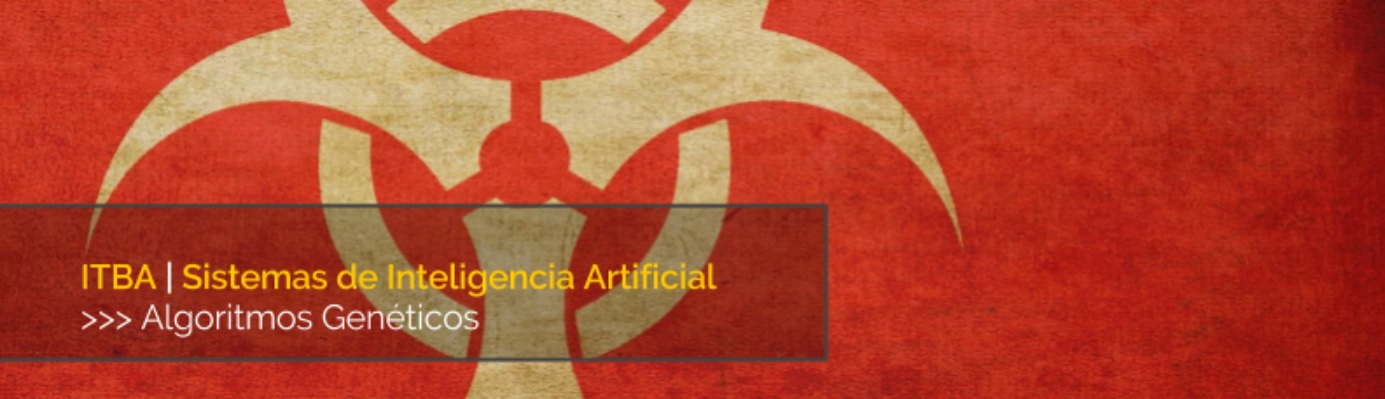
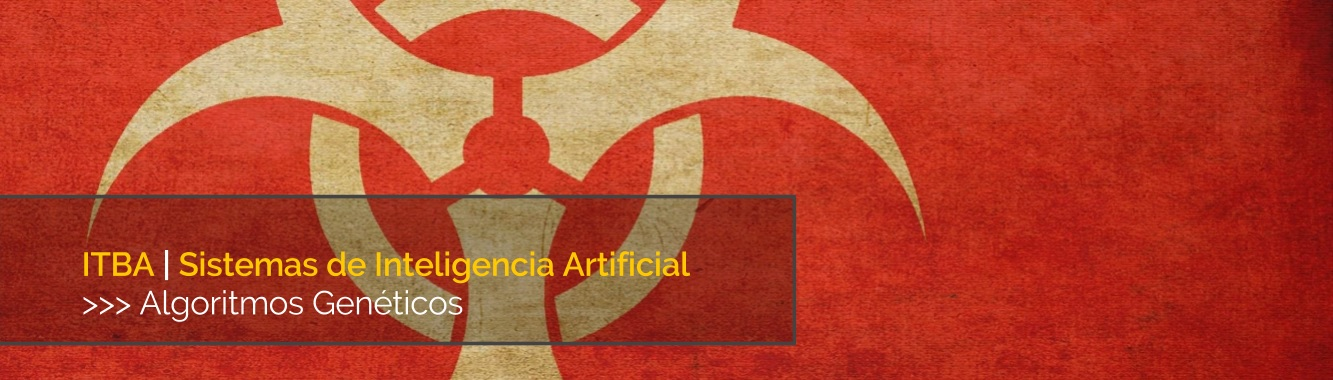
README final. Más resolución en la imagen del HEADER. Configuración óptima.

diff --git a/tp3/README.md b/tp3/README.md
@@ -1,13 +1,17 @@
 ![...](res/images/header.jpg)
 
-# Genetic Algorithms
+# Genetic System©
 
-Se desarrolló un **RCGA** (_Real-Coded Genetic Algorithm_), para optimizar el equipamiento
-de un personaje en un videojuego, maximizando su desempeño. El personaje asignado fue el _Defensor N° 2_.
+Se desarrolló un _**RCGA**_ (_Real-Coded Genetic Algorithm_), para optimizar
+el equipamiento de un personaje en un videojuego, maximizando su desempeño. El
+personaje asignado fue el _Defensor N° 2_. Para la implementación, se decidió
+utilizar el framework **_MathWorks® Matlab_**, ya que facilita la aplicación
+de cálculos matriciales, y la visualización de información.
 
-Para la implementación, se decidió utilizar el framework
-**_MathWorks® Matlab_**, ya que facilita la aplicación de cálculos
-matriciales, y la visualización de información.
+El algoritmo permite obtener la configuración final de ítems, los valores de
+cada uno de ellos (extraidos desde la base de datos proporcionada), y la
+altura más óptima para el personaje diseñado. Así mismo, computa el desempeño
+máximo percibido con esta configuración.
 
 ## Instalación
 
@@ -29,7 +33,7 @@ configuración `config.json`, con la siguiente estructura (en formato _JSON_):
 	"helmets" : "../res/benchmarks/data/cascos.tsv",
 	"weapons" : "../res/benchmarks/data/armas.tsv",
 
-	"output" : "../res/benchmarks/output.json"
+	"output" : "../res/benchmarks/output.json",
 
 	"attackDefenseRate" : 0.1,
 
@@ -39,74 +43,128 @@ configuración `config.json`, con la siguiente estructura (en formato _JSON_):
 	"itemResistance" : 1.1,
 	"itemHealth": 1.1,
 
-	"population" : 250,
+	"population" : 300,
 	"generations": 10000,
 	"cutOffThreshold" : 176,
-	"contentAssert" : true,
-	"contentAssertSteps" : 10000,
+	"contentAssert" : false,
+	"contentAssertSteps" : 1000,
 	"structAssert" : false,
-	"structAssertRatio" : 0.9,
+	"structAssertRatio" : 0.75,
 
-	"selection" : 20,
-	"selectionMethod": ["boltzmann", "elite"],
-	"selectionMethodRate": 0.8,
+	"selection" : 50,
+	"selectionMethod": ["deterministicTournament", "elite"],
+	"selectionMethodRate": 0.7,
 	"temperature" : 1000,
 	"tempReductionRate" : 1,
 
-	"crossoverProbability": 0.9,
+	"crossoverProbability": 0.85,
 	"crossoverMethod": "anular",
 
-	"mutationProbability" : 0.025,
+	"mutationProbability" : 0.07,
 
-	"replacement": 2,
-	"replacementMethod": ["probabilisticTournament", "elite"],
-	"replacementMethodRate": 0.8,
+	"replacement": 1,
+	"replacementMethod": ["deterministicTournament", "elite"],
+	"replacementMethodRate": 0.7,
 
-	"graphRateLimit" : true,
-	"graphFitness" : true
+	"graphFitness" : true,
+	"graphRateLimit" : true
 }
 
 ```
 
-Cada parámetro especifica:
+Donde cada parámetro especifica:
 
-* `attackDefenseRate`: porcentaje de desempeño que se le asignará al ataque y la defensa. El mismo se elige en base al personaje: si se toma un valor _P_, el desempeño del mismo dependerá de un porcentaje _P_ del ataque y _1-P_ de la defensa.
-* `itemStrength`, `itemAgility`, `itemExpertise`, `itemResistance`, `itemHealth`: los multiplicadores de los ítems.
-* `crossoverMethod`: el método que se utilizará en la cruza. Puede ser `singlepoint`, `twopoint`, `uniform` o `anular`.
-* `crossoverProbability`: la probabilidad de realizarse una cruza.
-* `generations`: la cantidad máxima de generaciones.
-* `mutationProbability`: la probabilidad de que se realize una mutación en un gen.
+* `armors`, `boots`, `gauntlets`, `helmets`, `weapons`: especifican la ruta
+hacia las bases de datos (en formato _TSV_) de las pecheras, botas, guantes,
+cascos y armas, respectivamente. Nótese que la ruta debe especificarse de
+forma absoluta, o de forma relativa con respecto al directorio _src_ en el
+cual se despliega el algoritmo.
+
+* `output`: especifica el nombre de un archivo de salida en formato _JSON_ en
+el cual almacenar la población final, lo que permite reiniciar el algoritmo
+desde un punto conocido y alcanzado en una iteración anterior. También permite
+(configurando una corrida de _0_ generaciones), generar una población al azar
+con la cual inyectar sucesivas pruebas desde la misma instancia inicial.
+
+* `attackDefenseRate`: porcentaje de desempeño que se le asignará al ataque y
+la defensa. El mismo se elige en base al personaje: si se toma un valor _P_,
+el desempeño del mismo dependerá de una proporción _P_ de ataque y _(1 - P)_
+de defensa.
+
+* `itemStrength`, `itemAgility`, `itemExpertise`, `itemResistance`,
+`itemHealth`: los multiplicadores de los ítems para el _Defensor N° 2_.
+
 * `population`: la cantidad de inviduos que tendrá la población.
-* `replacement`: el método de reemplazo `1`, `2` o `3`.
-* `replacementMethod`: vector con los 2 métodos mediante los cuales se seleccionarán los cromosomas en la etapa de reemplazo. Las opciones son: `boltzmann`, `elite`, `deterministicTournament`, `probabilisticTournament`, `ranking`, `roulette` o `universal`.
- * `replacementMethodRate`: porcentaje _B_ de elegidos con el primer método de selección para reemplazo. Un porcentaje _1-B_ se elige mediante el segundo método.
- * `selection`: la cantidad de padres que se elegirán para cruzar.
- * `selectionMethod`: vector con los 2 métodos mediante los cuales se seleccionarán los cromosomas en la etapa de cruza. Las opciones son: `boltzmann`, `elite`, `deterministicTournament`, `probabilisticTournament`, `ranking`, `roulette`  o `universal`.
- * `selectionMethodRate`: porcentaje _A_ de elegidos con el primer método de selección. Un porcentaje _1-A_ se elige mediante el segundo método.
- * `temperature`: temperatura inicial para el método de Boltzmann.
- * `tempReductionRate`: proporción en la cual se reduce la temperatura en cada generación.
- * `graphRateLimit`: limita la cantidad de FPS utilizados en el gráfico de _fitness_, lo que permite reducir el costo de este proceso, e incrementar la fluidez percibida.
- * `graphFitness`: permite graficar la variación de adaptación máxima y promedio en tiempo real, mientras el algoritmo se ejecuta.
- * `output`: especifica un archivo de salida en formato _JSON_ en el cual almacenar la población final, lo que permite reiniciar el algoritmo desde un punto conocido alcanzado en una iteración anterior.
+* `generations`: la cantidad de ciclos o generaciones máximas a ejecutar.
+* `cutOffThreshold`: el límite máximo de adaptabilidad requerido antes de
+finalizar la ejecución.
+* `contentAssert`: indica si se debe aplicar una suspensión en la ejecución
+debido a que la máxima adaptación no progresa.
+* `contentAssertSteps`: la cantidad de generaciones en las cuales el máximo no
+debe progresar antes de finalizar la ejecución.
+* `structAssert`: indica si se debe aplicar una suspensión cuando el código
+genético de los cromosomas no varía substancialmente de generación en
+generación.
+* `structAssertRatio`: la proporción de individuos que no deben progresar a lo
+largo de las generaciones, antes de aplicar el corte.
 
-Luego de construir el archivo de configuración, dentro del sub-directorio
-*src*, y desde la aplicación _Matlab_, ejecute:
+* `selection`: la cantidad de padres que se elegirán para cruzar, es decir, el
+parámetro _k_.
+* `selectionMethod`: vector con los 2 métodos mediante los cuales se
+seleccionarán los cromosomas en la etapa de cruza. Las opciones son:
+`boltzmann`, `deterministicTournament`, `elite`, `probabilisticTournament`,
+`ranking`, `roulette` ó `universal`.
+* `selectionMethodRate`: proporción _A_ de elegidos con el primer método de
+selección. Una proporción _(1 - A)_ se elige mediante el segundo método.
+* `temperature`: temperatura inicial para el método de _Boltzmann_.
+* `tempReductionRate`: proporción en la cual se reduce la temperatura en cada
+generación, es decir, si la temperatura inicial es _T_ y la proporción es _R_,
+entonces en cada ciclo la misma se reduce por un factor _T x R_.
+
+* `crossoverProbability`: la probabilidad de aplciar una cruza entre _2_
+cromosomas.
+* `crossoverMethod`: el método que se utilizará en la cruza. Puede ser
+`anular`, `singlepoint`, `twopoint` ó `uniform`.
+
+* `mutationProbability`: la probabilidad de que se aplique la mutación de un
+gen (nótese que se aplica para cada gen y no para el cromosoma completo).
+
+* `replacement`: el método de reemplazo (`1`, `2` ó `3`), según el mecanismo
+especificado en la teoría por la cátedra.
+* `replacementMethod`: vector con los _2_ métodos mediante los cuales se
+seleccionarán los cromosomas en la etapa de reemplazo. Las opciones
+disponibles son equivalentes a las que se encuentran en el método de selección
+(_selectionMethod_).
+* `replacementMethodRate`: proporción _B_ de elegidos con el primer método de
+selección para reemplazo. Una proporción _(1 - B)_ se elige mediante el
+segundo método.
+
+* `graphFitness`: permite graficar la variación de adaptación máxima y
+promedio en tiempo real, mientras el algoritmo se ejecuta ciclo a ciclo.
+* `graphRateLimit`: limita la cantidad de _FPS_ utilizados en el gráfico de
+_fitness_, lo que permite reducir el costo de este proceso, e incrementar la
+fluidez percibida cuando el número de generaciones es elevado.
+
+Para el personaje asignado, la configuración presentada más arriba se
+corresponde con la óptima hallada. Luego de construir este archivo, dentro del
+sub-directorio *src*, y desde la aplicación _Matlab_, ejecute:
 
 	Genetic.load(lazyness);
 
-Donde **lazyness** indica si el set de datos debe cargarse nuevamente
-(_false_), o si debe reutilizarse el mismo conjunto de una llamada previa al
-método _load_ (_true_). Esto permite evitar cargar un gran volumen de datos cada vez
-que se ejecuta una instancia del algoritmo (debido quizás a la modificación de
-algún parámetro de ejecución). Luego de cargar la configuración, ejecute el
-algoritmo:
+Donde _**lazyness**_ indica si el set de datos debe cargarse nuevamente
+(_**false**_), o si debe reutilizarse el mismo conjunto de una llamada previa
+al método _Genetic.load(...)_ (_**true**_). Esto permite evitar la carga de un
+gran volumen de datos cada vez que se ejecuta una instancia del algoritmo
+(quizás durante la modificación de algún parámetro de ejecución). Luego de
+cargar la configuración, ejecute el algoritmo:
 
 	Genetic.run();
 
 Para utilizar una población inicial específica (desde una archivo _JSON_),
-especifique la ruta hacia el archivo:
+especifique la ruta hacia el archivo (de forma absoluta, o de forma relativa
+al directorio _src_):
 
-	Genetic.run("../res/benchmarks/output.json");
+	Genetic.run('../res/benchmarks/output.json');
 
 Si desea eliminar la configuración instalada y el set de datos cargado,
 ejecute:
